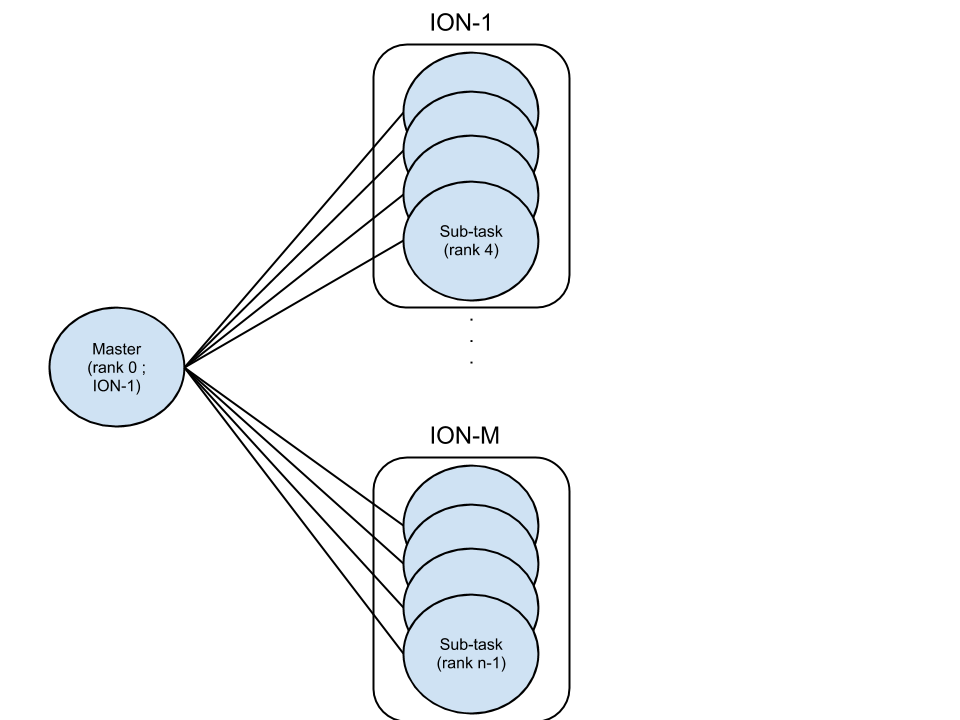
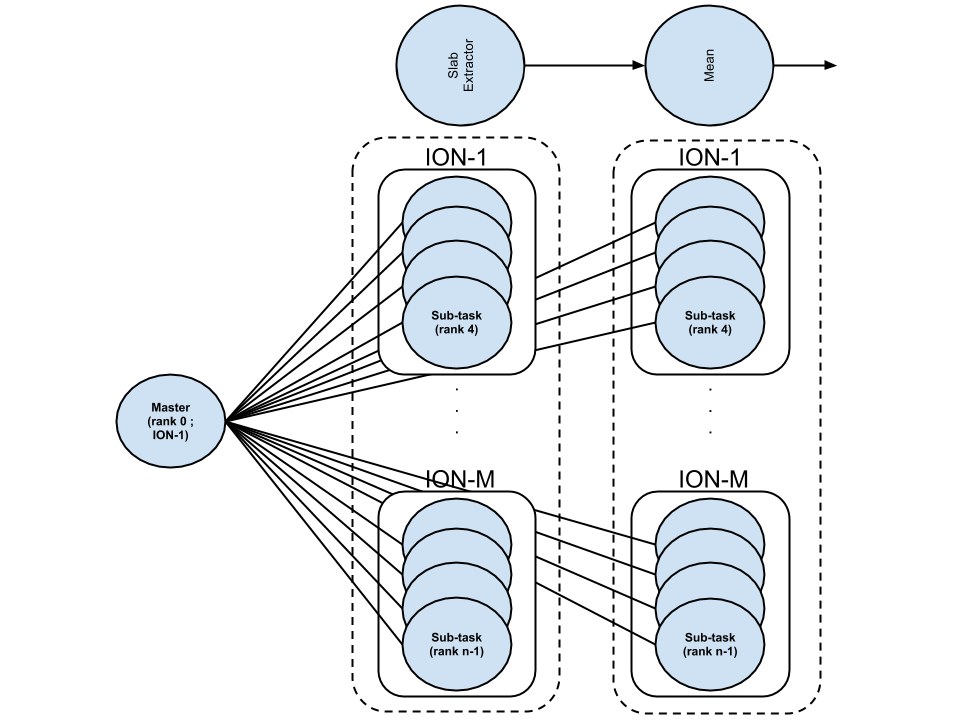
Update based on comments

Changed region(s): [[0.0312, 0.0, 0.8125, 1.0], [0.8438, 0.0611, 0.875, 0.0917], [0.8125, 0.2444, 0.8438, 0.275]]

diff --git a/_posts/2013-07-09-intel-analysis-shipping-scoping.md b/_posts/2013-07-09-intel-analysis-shipping-scoping.md
@@ -1,4 +1,14 @@
-# Analysis Shipping
+---
+layout: post
+title: Intel - Meeting Notes
+category: labnotebook
+tags:
+  - intel
+  - hdf5
+  - ff
+---
+
+# {{ page.title }}
 
 Analytical tasks can be generalized as directed acyclic graphs (DAG), which are executed on IOD. We 
 encapsulate the discussion of the Analysis Shipping feature around this framework. Doing so allows 
@@ -13,16 +23,16 @@ The following is the high-level use case we envision for the _Analysis Shipping_
  1. User writes an analysis task specification consisting of an analytical workflow that the system 
     has to execute.
 
- 2. User sends analysis task to IOD so that it gets executed.
+ 2. User sends analysis task so that it gets executed on IONs.
 
- 3. IOD returns an analysis monitor[^monitor] object.
+ 3. An analysis monitor object gets returned[^monitor].
 
  4. User can consult the execution state of the analysis task, as well as explore intermediate/final 
     results through the returned monitor.
 
 The above is in general what we would like to provide the user with. At this point there are several 
 unknowns that depend on the capabilities provided by IOD (and our correct understanding of them), 
-the assumptions made on client infrastructure, capabilities of IOD to execute user-defined code, 
+the assumptions made on client infrastructure, capabilities of IONs to execute user-defined code, 
 among others. We will frame our questions in terms of each of the steps presented previously.
 
 [^hpc-wf]: A good overview of existing workflow management systems is contained in 
@@ -50,9 +60,7 @@ planned to optionally demonstrate as part of EFF.
 
 **Questions**:
 
-  - This entire document assumes non-iterative workflows. The main reason being that iterative 
-    workflows inherently assume support for checkpointing, which might be too much for IOD to 
-    handle. In such cases, having an analysis cluster might be more well suited.
+  - This entire document assumes non-iterative workflows.
 
 ## Task specification
 
@@ -88,7 +96,12 @@ we can have the following JSON document:
       {
          "id": 3,
          "op": "write",
-         "dimensions": ["time","lat","long","elevation"],
+         "dimensions": [
+            "time",
+            "lat",
+            "long",
+            "elevation"
+         ],
          "attributes": "pressure"
       }
    ],
@@ -103,6 +116,35 @@ we can have the following JSON document:
 And graphically shown in Figure 1.
 
 ![The DAG for the three-node example.][plan]
+
+Note that the fact that an analysis flow is composed of three operators doesn't necessarily mean 
+that it will need to be implemented in three separate rounds of pipelined subtasks (see below on 
+"DAG execution section"). It depends on what the capabilities of the underlying execution engine 
+are. In this particular case, IOD allows for the implementation of a smarter aggregation operator 
+that encapsulates all of the above in a single operation (`iod_array_read` does the slab extraction 
+on its own), something like:
+
+```json
+{
+   "ops": [
+      {
+         "id": 1,
+         "op": "slab-extractor-aggregator",
+         "object": "ucar_data",
+         "space": {
+            "corner": [547,0,0,0],
+            "space":  [3650,360,360,50]
+         },
+         "slab": [2,36,36,10],
+         "attributes": "pressure",
+         "aggregate": "mean",
+      }
+   ],
+   "dag": {
+      "1": [],
+   }
+}
+```
 
 [^json]: This is just a top-of-the-head alternative, ideally we would like to represent DAGs 
 efficiently so we might need to use an internal representation (`H5*` object).
@@ -149,14 +191,14 @@ operator in a flow, the following:
 
  4. Terminate (or execute next operator in the pipeline).
 
-Figure 2 illustrates the above.
+Figure 2 illustrates the above. The DAG on the top is the one used in the example in Figure 1.
+
+![An MPI-based service for executing/coordinating the execution of a DAG.][mpi-cluster]
 
 **Questions**
 
   - how many ranks does the MPI communicator that it's available at the IOD have? if it's just as 
     many as IONs, then the above diagram should only have one task per ION.
-
-![An MPI-based service for executing/coordinating the execution of a DAG.][mpi-cluster]
 
 ### Parallel execution (**to-do**: needs to be extended)
 
@@ -171,17 +213,15 @@ Number 1 is straight-forward, as it's a matter of correctly referencing the path
 which we want to execute a query. For 2, as per [@bent_milestone_2013-1], IOD exposes mechanisms to 
 control the sharding/layout of objects.
 
+
+**Questions**:
+
   - What happens when an `iod_array_read` call receives `iod_array_iodesc_t` that is not aligned to 
     the underlying chunking strategy? If this isn't supported, i.e. all calls have to be aligned to 
     the underlying layout, we will need to either reshuffle data on our side (in terms of the 
     diagram in Figure 2, this means we would need to add a new vertical set of tasks before we can 
     apply the mean; in other words, the storage can't be our intermediate result) or 
     re-layout/replicate the object. (**to-do**: add example illustrating why)
-
-**Questions**:
-
-  - None so far; need to extend this description to get more in-depth to how exactly each task will 
-    operate "externally" (for internal, see next section on DAG Operators).
 
 ### DAOS shards
 
@@ -240,9 +280,7 @@ all scenarios[^vm].
 In order to support this scheme, an adaptation layer must seat between the IOD API and the user 
 code. This would expose IOD in the similar way that VOL does in the case of HDF5. For example, a 
 hypothetical EFF-extended `h5py` can be adapted by taking the corresponding python script and 
-replicating it on each subtask. In general, for each language runtime, this would end up looking 
-similar to the Agrios system developed on top of SciDB, which is capable of executing R scripts 
-without modification [@leyshock_agrios_2012].
+replicating it on each subtask.
 
 **Questions**:
 
@@ -309,6 +347,11 @@ include:
       - [UV-CDAT](http://uv-cdat.llnl.gov/wiki/UseCases)
       - [SciDB use cases](http://uv-cdat.llnl.gov/wiki/UseCases)
       - [AMUSE examples](http://www.amusecode.org/doc/examples/)
+
+**Questions**:
+
+  - implement a more complex example involving the reshuffling/re-laying-out of data (can IOD be 
+    used as a means of communicating between dependent subtasks).
 
 # References
 
